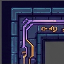
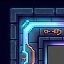
feat: upgrade environment visuals to environment2 assets with modular walls and multi-hue crystals

diff --git a/src/components/GameCanvas.tsx b/src/components/GameCanvas.tsx
@@ -116,10 +116,22 @@ export const GameCanvas: React.FC<GameCanvasProps> = ({
       'floor_cracked',
       'wall_top',
       'wall_block',
+      'wall_horiz',
+      'wall_core',
       'wall_vert',
       'wall_corner_tl',
+      'wall_cross',
       'crystals',
       'crystal_single',
+      'crystal_blue',
+      'crystal_green',
+      'crystal_magenta',
+      'crystal_prismatic',
+      'plate_off',
+      'plate_on',
+      'plate_on_amber',
+      'plate_on_violet',
+      'trim_gold_corner',
     ];
 
     tiles.forEach((t) => {
@@ -339,13 +351,17 @@ export const GameCanvas: React.FC<GameCanvasProps> = ({
               ctx.strokeRect(cx + 1.5, cy + 1.5, cellSize - 3, cellSize - 3);
             }
 
-            // Decorative glowing crystals in select corridor dead-ends or corners
+            // Decorative glowing crystals from environment2 in select corridor corners
             if ((x * 11 + y * 17) % 19 === 3) {
-              const crystalImg = tileImages.current['crystal_single'];
+              const crystalKeys = ['crystal_blue', 'crystal_green', 'crystal_magenta', 'crystal_prismatic'];
+              const cKey = crystalKeys[(x + y) % crystalKeys.length];
+              const crystalImg = tileImages.current[cKey] || tileImages.current['crystal_single'];
               if (crystalImg && crystalImg.complete && crystalImg.naturalWidth > 0) {
-                const cSize = Math.floor(cellSize * 0.35);
+                const cSize = Math.floor(cellSize * 0.4);
                 ctx.save();
-                ctx.globalAlpha = 0.6 + Math.sin(now * 0.004 + x + y) * 0.2;
+                ctx.shadowColor = '#00f2fe';
+                ctx.shadowBlur = 8;
+                ctx.globalAlpha = 0.75 + Math.sin(now * 0.005 + x * 2 + y) * 0.2;
                 ctx.drawImage(crystalImg, cx + cellSize - cSize - 2, cy + 2, cSize, cSize);
                 ctx.restore();
               }
@@ -399,50 +415,81 @@ export const GameCanvas: React.FC<GameCanvasProps> = ({
         ctx.restore();
       }
 
-      // 3. Draw Pressure Plates (Mechanical, for Player OR Ghost)
+      // 3. Draw Pressure Plates (Mechanical & Spectral Rune Plates from environment2)
       for (const plate of state.plates) {
         const cx = offsetX + plate.x * cellSize;
         const cy = offsetY + plate.y * cellSize;
         const isPressed = plate.isPressed;
 
-        const pad = Math.floor(cellSize * 0.16);
+        const pad = Math.floor(cellSize * 0.12);
         const pw = cellSize - pad * 2;
         const ph = cellSize - pad * 2;
 
         ctx.save();
-        if (isPressed) {
-          ctx.fillStyle = 'rgba(15, 23, 42, 0.9)';
-          ctx.fillRect(cx + pad, cy + pad, pw, ph);
+        const plateSpriteKey = isPressed
+          ? (plate.color === '#f59e0b' ? 'plate_on_amber' : 'plate_on')
+          : 'plate_off';
+        const plateImg = tileImages.current[plateSpriteKey];
 
-          ctx.strokeStyle = plate.color;
-          ctx.lineWidth = 2.5;
-          ctx.shadowColor = plate.color;
-          ctx.shadowBlur = 12;
-          ctx.strokeRect(cx + pad + 1, cy + pad + 1, pw - 2, ph - 2);
+        if (plateImg && plateImg.complete && plateImg.naturalWidth > 0) {
+          if (isPressed) {
+            // Radiant plasma beacon glow on activation
+            ctx.shadowColor = plate.color;
+            ctx.shadowBlur = 18;
+            ctx.drawImage(plateImg, cx + pad, cy + pad, pw, ph);
 
-          ctx.fillStyle = plate.color;
-          ctx.globalAlpha = 0.35 + Math.sin(now * 0.008) * 0.15;
-          ctx.fillRect(cx + pad + 4, cy + pad + 4, pw - 8, ph - 8);
+            // Pulsing rune energy beacon
+            ctx.strokeStyle = plate.color;
+            ctx.lineWidth = 2;
+            ctx.globalAlpha = 0.8 + Math.sin(now * 0.008) * 0.2;
+            ctx.strokeRect(cx + pad, cy + pad, pw, ph);
+          } else {
+            // Dormant metal socket
+            ctx.globalAlpha = 0.85;
+            ctx.drawImage(plateImg, cx + pad, cy + pad, pw, ph);
 
-          ctx.globalAlpha = 1;
-          ctx.fillStyle = '#ffffff';
-          ctx.beginPath();
-          ctx.arc(cx + cellSize / 2, cy + cellSize / 2, pw * 0.18, 0, Math.PI * 2);
-          ctx.fill();
+            // Subtle color identification rim
+            ctx.strokeStyle = plate.color;
+            ctx.globalAlpha = 0.5;
+            ctx.lineWidth = 1.5;
+            ctx.strokeRect(cx + pad + 1, cy + pad + 1, pw - 2, ph - 2);
+          }
         } else {
-          ctx.fillStyle = '#1e293b';
-          ctx.fillRect(cx + pad, cy + pad, pw, ph);
+          // Fallback procedural plate rendering
+          if (isPressed) {
+            ctx.fillStyle = 'rgba(15, 23, 42, 0.9)';
+            ctx.fillRect(cx + pad, cy + pad, pw, ph);
 
-          ctx.strokeStyle = 'rgba(148, 163, 184, 0.4)';
-          ctx.lineWidth = 1.5;
-          ctx.strokeRect(cx + pad, cy + pad, pw, ph);
+            ctx.strokeStyle = plate.color;
+            ctx.lineWidth = 2.5;
+            ctx.shadowColor = plate.color;
+            ctx.shadowBlur = 12;
+            ctx.strokeRect(cx + pad + 1, cy + pad + 1, pw - 2, ph - 2);
 
-          ctx.strokeStyle = plate.color;
-          ctx.globalAlpha = 0.6;
-          ctx.lineWidth = 1.5;
-          ctx.beginPath();
-          ctx.arc(cx + cellSize / 2, cy + cellSize / 2, pw * 0.2, 0, Math.PI * 2);
-          ctx.stroke();
+            ctx.fillStyle = plate.color;
+            ctx.globalAlpha = 0.35 + Math.sin(now * 0.008) * 0.15;
+            ctx.fillRect(cx + pad + 4, cy + pad + 4, pw - 8, ph - 8);
+
+            ctx.globalAlpha = 1;
+            ctx.fillStyle = '#ffffff';
+            ctx.beginPath();
+            ctx.arc(cx + cellSize / 2, cy + cellSize / 2, pw * 0.18, 0, Math.PI * 2);
+            ctx.fill();
+          } else {
+            ctx.fillStyle = '#1e293b';
+            ctx.fillRect(cx + pad, cy + pad, pw, ph);
+
+            ctx.strokeStyle = 'rgba(148, 163, 184, 0.4)';
+            ctx.lineWidth = 1.5;
+            ctx.strokeRect(cx + pad, cy + pad, pw, ph);
+
+            ctx.strokeStyle = plate.color;
+            ctx.globalAlpha = 0.6;
+            ctx.lineWidth = 1.5;
+            ctx.beginPath();
+            ctx.arc(cx + cellSize / 2, cy + cellSize / 2, pw * 0.2, 0, Math.PI * 2);
+            ctx.stroke();
+          }
         }
         ctx.restore();
       }
@@ -665,30 +712,55 @@ export const GameCanvas: React.FC<GameCanvasProps> = ({
       }
       ctx.restore();
 
-      // 9. Draw Temple / Cavern Walls & Circuitry Boundaries
+      // 9. Draw Temple / Cavern Walls & Circuitry Boundaries (environment2)
       for (const wall of level.walls) {
         const wx = offsetX + wall.x * cellSize;
         const wy = offsetY + wall.y * cellSize;
 
+        // Neighbor wall adjacency check for seamless modular connections
+        const hasNorth = level.walls.some((w) => w.x === wall.x && w.y === wall.y - 1);
+        const hasSouth = level.walls.some((w) => w.x === wall.x && w.y === wall.y + 1);
+        const hasEast = level.walls.some((w) => w.x === wall.x + 1 && w.y === wall.y);
+        const hasWest = level.walls.some((w) => w.x === wall.x - 1 && w.y === wall.y);
+
+        let chosenWallKey = 'wall_block';
+        if (hasNorth && hasSouth && hasEast && hasWest) {
+          // Central cross junction
+          chosenWallKey = 'wall_cross';
+        } else if (hasEast && hasWest && !hasNorth && !hasSouth) {
+          // Horizontal corridor wall - alternate with glowing core generator
+          chosenWallKey = (wall.x % 3 === 0) ? 'wall_core' : 'wall_horiz';
+        } else if (hasNorth && hasSouth && !hasEast && !hasWest) {
+          // Vertical conduit wall
+          chosenWallKey = 'wall_vert';
+        } else if ((hasSouth && hasEast) || (hasSouth && hasWest) || (hasNorth && hasEast) || (hasNorth && hasWest)) {
+          // Corner junction
+          chosenWallKey = 'wall_corner_tl';
+        } else if (hasEast || hasWest) {
+          chosenWallKey = 'wall_horiz';
+        }
+
         ctx.save();
-        const wallImg = tileImages.current['wall_block'];
+        const wallImg = tileImages.current[chosenWallKey] || tileImages.current['wall_block'];
         if (wallImg && wallImg.complete && wallImg.naturalWidth > 0) {
-          // Draw textured stone & circuit wall tile
+          // Draw textured stone & circuit wall tile from environment2
           ctx.drawImage(wallImg, wx, wy, cellSize, cellSize);
 
           // Deep blue stone depth border
-          ctx.strokeStyle = '#1e1b4b';
-          ctx.lineWidth = 1.5;
+          ctx.strokeStyle = '#0f172a';
+          ctx.lineWidth = 1;
           ctx.strokeRect(wx + 0.5, wy + 0.5, cellSize - 1, cellSize - 1);
 
           // Top highlight bevel for 3D depth
-          ctx.fillStyle = 'rgba(129, 140, 248, 0.25)';
-          ctx.fillRect(wx + 1, wy + 1, cellSize - 2, 3);
+          ctx.fillStyle = 'rgba(56, 189, 248, 0.18)';
+          ctx.fillRect(wx + 1, wy + 1, cellSize - 2, 2.5);
 
-          // Subtle purple energy circuit glow
-          ctx.fillStyle = '#a855f7';
-          ctx.globalAlpha = 0.4 + Math.sin(now * 0.003 + wall.x + wall.y) * 0.25;
-          ctx.fillRect(wx + cellSize / 2 - 2, wy + cellSize / 2 - 2, 4, 4);
+          // Pulsing cyan/violet energy conduit nodes
+          ctx.fillStyle = '#00f2fe';
+          ctx.shadowColor = '#00f2fe';
+          ctx.shadowBlur = 6;
+          ctx.globalAlpha = 0.5 + Math.sin(now * 0.004 + wall.x * 3 + wall.y * 2) * 0.35;
+          ctx.fillRect(wx + cellSize / 2 - 1.5, wy + cellSize / 2 - 1.5, 3, 3);
         } else {
           // Deep mysterious blue/navy stone block fallback
           ctx.fillStyle = '#0a1122';
